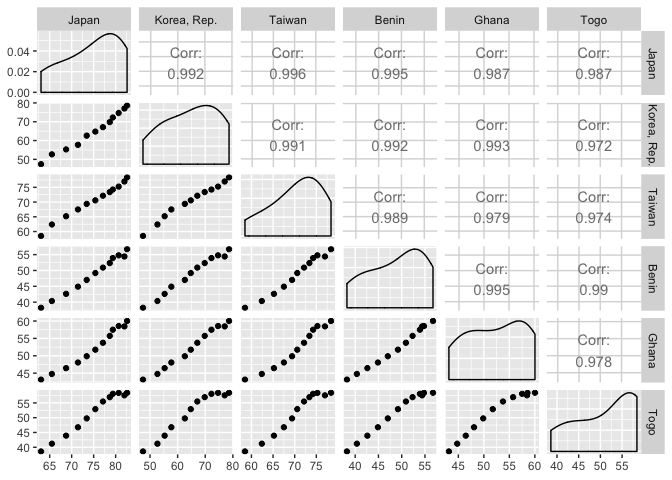
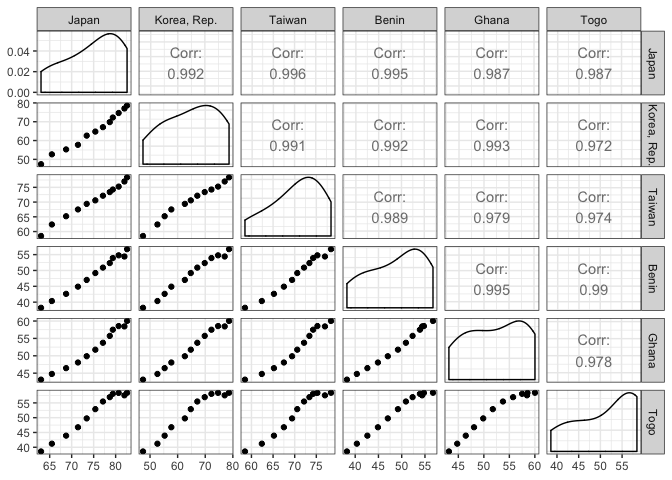
Finished one question

diff --git a/homework_04_Tidy_data_and_joins.md b/homework_04_Tidy_data_and_joins.md
@@ -38,6 +38,8 @@ head(gapminder) %>%
 Data reshaping
 --------------
 
+### Life expectancy from a few countries over the years
+
 The life expectancy of three Asian countries (i.e., Japan, South Korea, and Taiwan) and three African countries (i.e., Benin, Ghana, and Togo) over the years is tabulated below:
 
 ``` r
@@ -72,12 +74,65 @@ gapminder %>%
   select(country, year, lifeExp) %>%
   spread(key = country, value = lifeExp) %>%
   select(year, "Japan", "Korea, Rep.", "Taiwan", "Benin", "Ghana", "Togo") %>%
-  ggpairs(data = ., columns = 2:7)
+  ggpairs(data = ., columns = 2:7) + theme_bw()
 ```
 
 <img src="homework_04_Tidy_data_and_joins_files/figure-markdown_github/unnamed-chunk-4-1.png" style="display: block; margin: auto;" />
 
 As shown in the plot, life expectancy over the years is highly correlated across different countries, even countries in different continents.
+
+### Life expectancy growth in different continents
+
+Let us compare the five-year growth in life expectancy (since the data were sampled every five years) in different continents.
+
+``` r
+gapminder %>%
+  group_by(country) %>%
+  mutate(growth_lifeExp = lifeExp - lag(lifeExp)) %>%  # Calculate the growth compared to the previous year
+  filter(year != 1952, continent != "Oceania") %>%  # Remove NA values and data from Oceania
+  ungroup() %>%
+  group_by(year, continent) %>%
+  summarize(mdn_grt_lifeExp = median(growth_lifeExp)) %>%  # Calculate the median
+  spread(key = continent, value = mdn_grt_lifeExp) %>%
+  knitr::kable(.)
+```
+
+|  year|  Africa|  Americas|   Asia|  Europe|
+|-----:|-------:|---------:|------:|-------:|
+|  1957|  2.0175|     2.819|  2.782|  1.9300|
+|  1962|  2.0025|     2.816|  2.575|  1.5650|
+|  1967|  1.9920|     2.100|  2.700|  0.9750|
+|  1972|  2.0920|     2.118|  2.501|  0.7800|
+|  1977|  2.0545|     2.157|  2.246|  1.2650|
+|  1982|  1.9910|     1.791|  2.115|  0.9300|
+|  1987|  1.8925|     1.633|  2.087|  0.8735|
+|  1992|  1.1700|     1.094|  1.851|  0.8450|
+|  1997|  0.9245|     1.547|  1.370|  1.1665|
+|  2002|  1.0135|     1.199|  1.409|  1.2515|
+|  2007|  1.5625|     1.077|  1.410|  0.9375|
+
+We can already see a rough trend from the table: the growth in life expectancy decreased slightly over the years across continents. The trend becomes more "visible" when the data are plotted.
+
+``` r
+gapminder %>%
+  group_by(country) %>%
+  mutate(growth_lifeExp = lifeExp - lag(lifeExp)) %>%  # Calculate the growth compared to the previous year
+  filter(year != 1952, continent != "Oceania") %>%  # Remove NA values and data from Oceania
+  ungroup() %>%
+  group_by(year, continent) %>%
+  ggplot(aes(x = year, y = growth_lifeExp, color = continent)) +
+  facet_wrap(~continent) + 
+  geom_jitter(alpha = 0.1) +
+  geom_smooth(method = "lm") +  # Fit regression lines
+  scale_x_continuous(breaks = seq(1957, 2007, 10)) +
+  coord_cartesian(ylim=c(-2, 4)) +
+  labs(x = 'Year', y = 'Life expectancy growth (years)') +
+  theme(legend.position = "none")
+```
+
+<img src="homework_04_Tidy_data_and_joins_files/figure-markdown_github/unnamed-chunk-6-1.png" style="display: block; margin: auto;" />
+
+As shown in the plot, the growth in life expectancy decreased gradually across the four continents. We can also see some differences between continents. Around 1960, the growth is biggest in Asia and smallest in Europe. In addition, there is quite some variation in Africa, compared with Europe or Americas in general, as indicated by the width of the gray ribbons.
 
 Data join
 ---------
